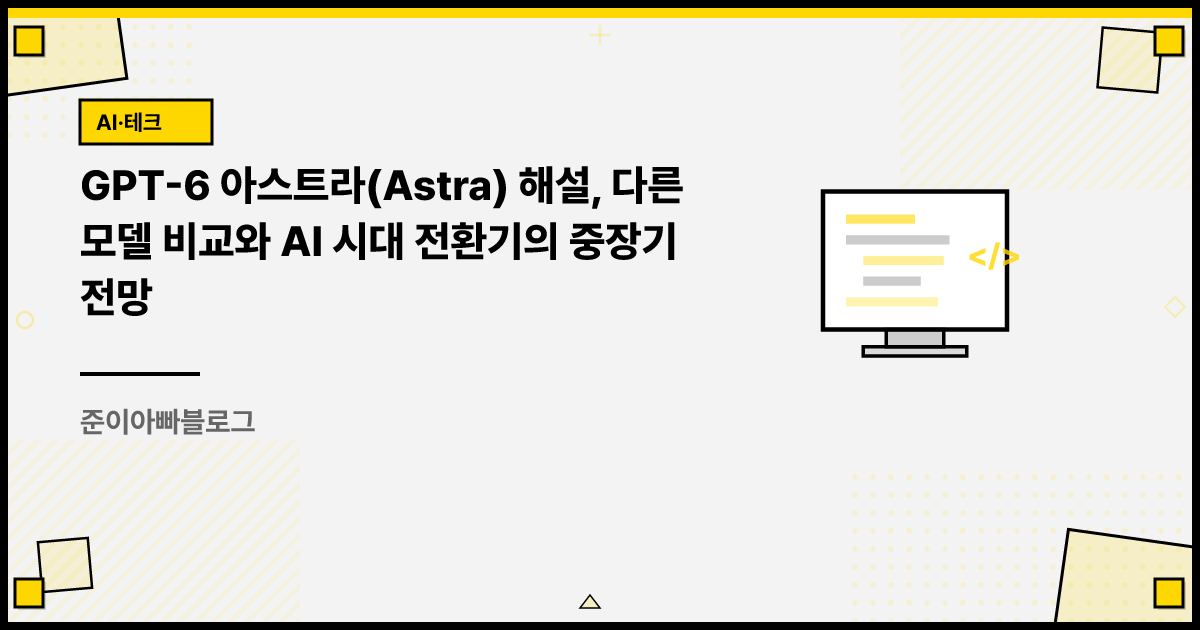
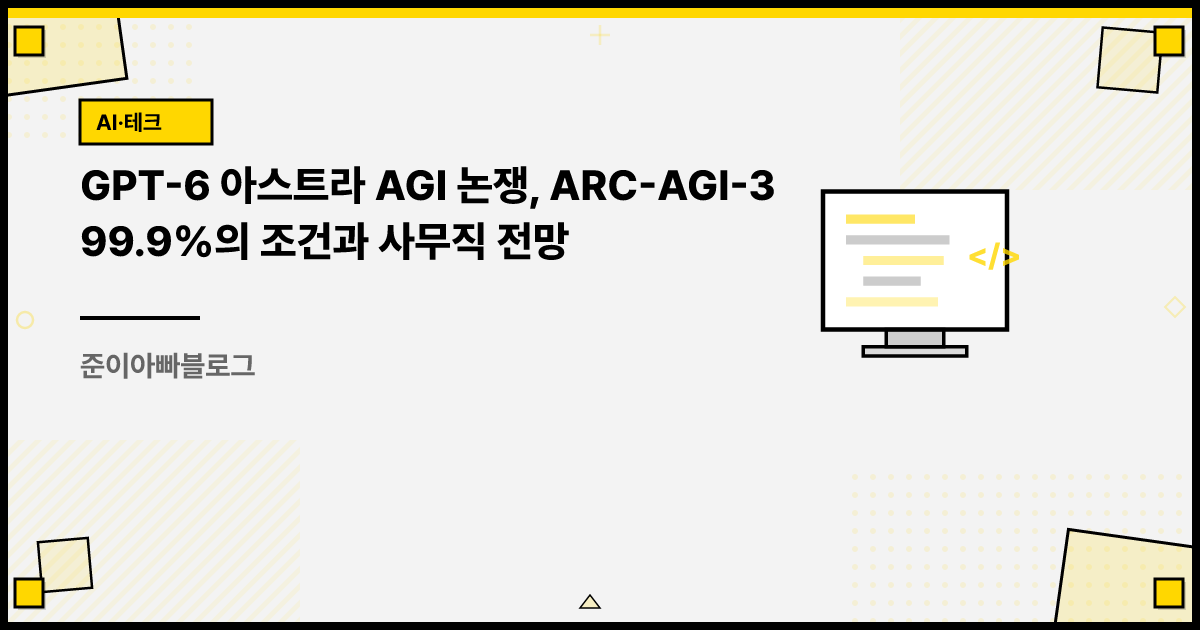
fix(insights): GPT-6 아스트라 전환기 글 제목을 AGI 논쟁 축으로 변경
- 기존 아스트라 비교 글과 검색어가 겹쳐 제목, 메타 제목, og 제목을 바꾸고 썸네일 재생성
- updatedAt 기록으로 사이트맵 lastmod 갱신

Claude-Session: https://claude.ai/code/session_01MGjHDDF8NeVUcwx4LgAQcC

Changed region(s): [[0.0617, 0.2413, 0.6475, 0.5127], [0.0617, 0.6333, 0.2158, 0.6937], [0.0617, 0.5429, 0.2158, 0.6032]]

diff --git a/content/insights/gpt-6-astra-ai-transition-era.md b/content/insights/gpt-6-astra-ai-transition-era.md
@@ -1,9 +1,9 @@
 ---
 slug: gpt-6-astra-ai-transition-era
-title: 'GPT-6 아스트라(Astra) 해설, 다른 모델 비교와 AI 시대 전환기의 중장기 전망'
+title: 'GPT-6 아스트라 AGI 논쟁, ARC-AGI-3 99.9%의 조건과 사무직 전망'
 excerpt: >-
-  GPT-6 아스트라는 OpenAI가 2026년 9월 3일 공개한, 컴퓨터를 사람처럼 직접 조작하는 데 초점을 둔 모델입니다. 이번 출시가
-  왜 예전 모델 발표와 다른 반응을 얻었는지, 클로드 페이블 5.1과 제미나이 3.8 플래시와 견주면 어디에 서는지, ARC-AGI-3
+  GPT-6 아스트라는 OpenAI가 2026년 9월 3일 공개한, 컴퓨터를 사람처럼 직접 조작하는 데 초점을 둔 모델입니다. 이번 출시가 왜
+  예전 모델 발표와 다른 반응을 얻었는지, 클로드 페이블 5.1과 제미나이 3.8 플래시와 견주면 어디에 서는지, ARC-AGI-3
   99.9%와 Critical 사이버 등급이 무엇을 상징하는지 정리하고 사무직과 AI 전환기의 중장기 방향을 조심스럽게 전망했습니다.
 category: AI_TECH
 tags:
@@ -16,6 +16,7 @@ relatedSlugs:
   - claude-fable-5-1-mythos-5-1-update
   - ai-and-human-work-hours-history
 publishedAt: '2026-09-05T00:00:00.000Z'
+updatedAt: '2026-09-05T00:00:00.000Z'
 highlights:
   - >-
     벤치마크 점수보다 하네스와 작업당 비용을 먼저 봅니다. 같은 모델이 ARC-AGI-3에서 62.7%와 99.9%를 받았고 차이는 모델이
@@ -23,12 +24,12 @@ highlights:
   - >-
     지금 하는 일을 컴퓨터 조작 단위로 나눠 적어 둡니다. 에이전트에 맡길 부분과 사람이 판단할 부분을 구분해 둔 쪽이 전환기에 유리해
     보입니다.
-metaTitle: 'GPT-6 아스트라(Astra) 해설, 모델 비교와 AI 전환기 중장기 전망 (2026)'
+metaTitle: '오픈AI 아스트라는 AGI인지, ARC-AGI-3 두 점수와 사무직 전망 (2026)'
 metaDescription: >-
-  GPT-6 아스트라는 OpenAI가 2026년 9월 3일 공개한, 컴퓨터를 사람처럼 직접 조작하는 데 초점을 둔 모델입니다. 클로드
-  페이블 5.1과 제미나이 3.8 플래시와의 비교, ARC-AGI-3 99.9%의 조건, SNS 반응, 사무직과 AI 전환기의 중장기 전망을
+  GPT-6 아스트라는 OpenAI가 2026년 9월 3일 공개한, 컴퓨터를 사람처럼 직접 조작하는 데 초점을 둔 모델입니다. 클로드 페이블
+  5.1과 제미나이 3.8 플래시와의 비교, ARC-AGI-3 99.9%의 조건, SNS 반응, 사무직과 AI 전환기의 중장기 전망을
   정리했습니다.
-ogTitle: 'GPT-6 아스트라 해설, 다른 모델 비교와 AI 전환기의 중장기 전망'
+ogTitle: 'GPT-6 아스트라 AGI 논쟁, ARC-AGI-3 99.9%의 조건과 사무직 전망'
 ogDescription: >-
   컴퓨터 사용에 초점을 둔 GPT-6 아스트라가 왜 다른 반응을 얻었는지, 페이블 5.1과 제미나이 3.8 플래시와 어디가 다른지, 사무직과
   AI 전환기의 앞날을 어떻게 볼지까지 담았습니다.
@@ -38,7 +39,7 @@ quiz:
     options:
       - 모델은 같고 이전 추론 상태를 다음 요청에 넘기는 하네스 방식이 달랐기 때문
       - 두 번째 시험에서 더 큰 모델을 썼기 때문
-      - 첫 시험은 공개 문제, 두 번째는 연습 문제였기 때문
+      - '첫 시험은 공개 문제, 두 번째는 연습 문제였기 때문'
       - 사람 채점자가 달랐기 때문
     correctIndex: 0
     explanation: >-
@@ -47,14 +48,14 @@ quiz:
       구분해 함께 실립니다.
 summary3:
   - >-
-    GPT-6 아스트라는 OpenAI가 2026년 9월 3일 공개한 모델로 컴퓨터 조작에 초점을 두었고 OSWorld 2.0에서
-    작업당 약 40분에 72.6%를 기록해 GPT-5.6 Sol의 75분과 65.7%를 앞섰습니다.
+    GPT-6 아스트라는 OpenAI가 2026년 9월 3일 공개한 모델로 컴퓨터 조작에 초점을 두었고 OSWorld 2.0에서 작업당 약
+    40분에 72.6%를 기록해 GPT-5.6 Sol의 75분과 65.7%를 앞섰습니다.
   - >-
     ARC-AGI-3 점수는 표준 하네스에서 62.7%, 추론 상태를 넘겨주는 하네스에서 99.9%로 달라졌고 독립 평가의 종합 지능
     지수에서는 클로드 페이블 5.1보다 5점 낮은 61점을 받았습니다.
   - >-
-    모델 점수 경쟁이 하네스와 작업당 비용, 신뢰 경쟁으로 옮겨 가는 전환기로 보이며 사무직 일자리는 단기 실업률보다 업무 단위의
-    재편으로 먼저 나타날 가능성이 커 보입니다.
+    모델 점수 경쟁이 하네스와 작업당 비용, 신뢰 경쟁으로 옮겨 가는 전환기로 보이며 사무직 일자리는 단기 실업률보다 업무 단위의 재편으로
+    먼저 나타날 가능성이 커 보입니다.
 ---
 
 GPT-6 아스트라(GPT-6 Astra)는 OpenAI가 2026년 9월 3일 공개한, 컴퓨터를 사람처럼 직접 조작하는 데 초점을 둔 모델입니다. 발표 문구는 한 줄입니다. 컴퓨터로 할 수 있는 일이라면 무엇이든 아스트라가 대신하고, 빠르다는 것입니다.
